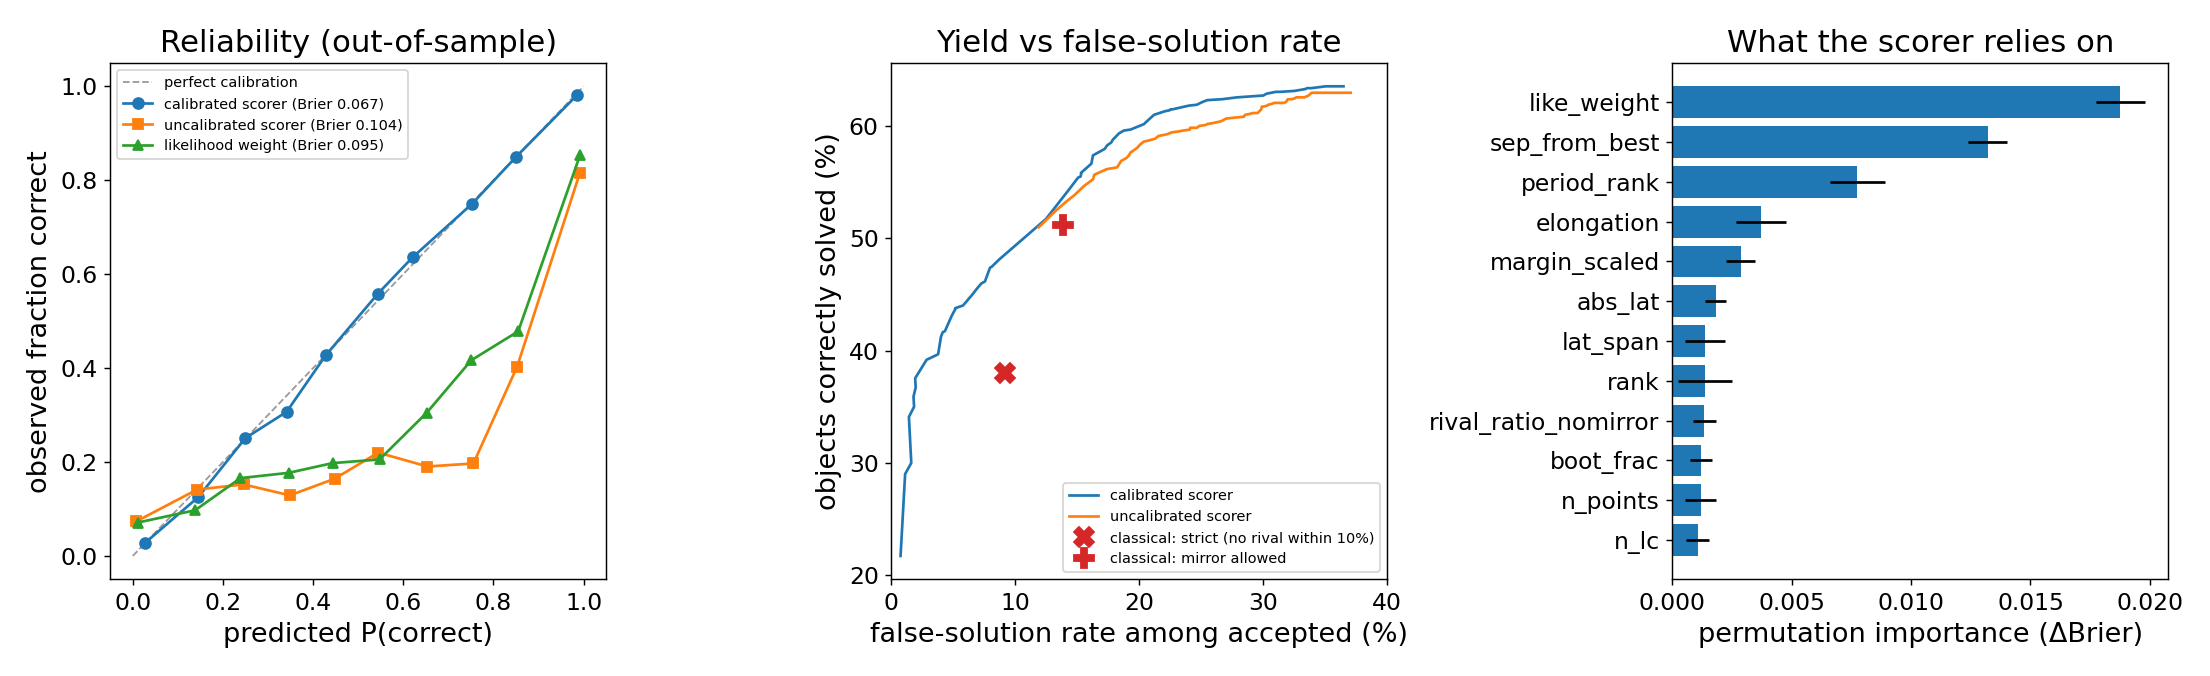
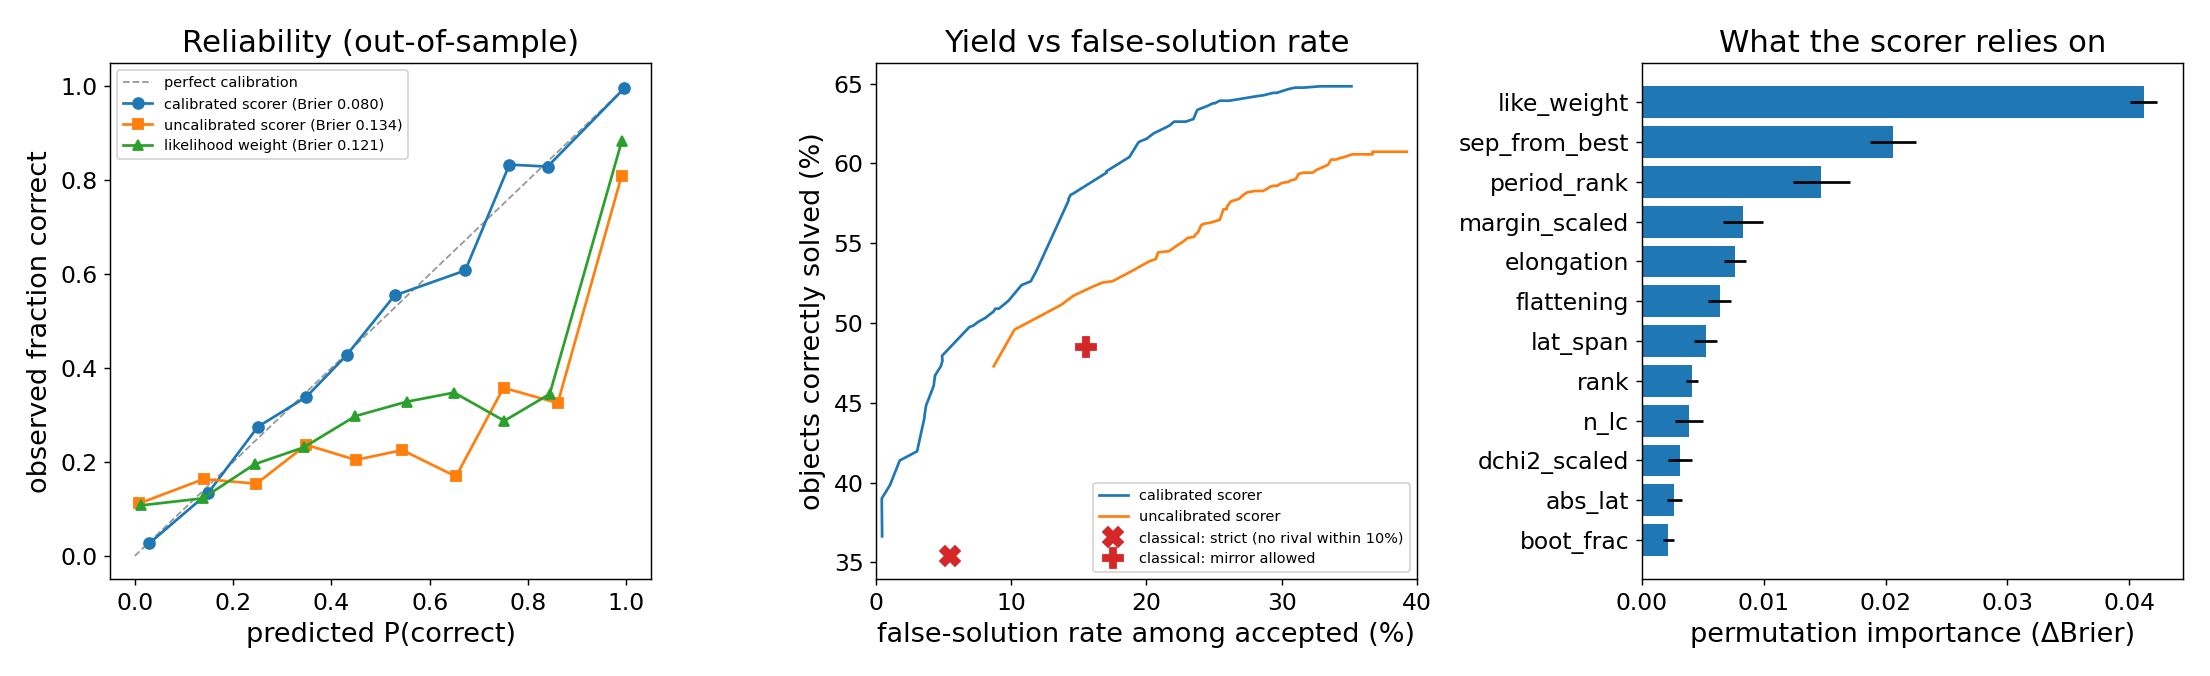
Calibration v2 trained; training-range guard; v2 real-data results
v2 (30 antipodal starts, 1220 injections, nested grouped CV): truth among candidates 83.3% -> 87.4%; objects correctly solved at <=1/2/5/10% false rate 21.7/37.5/43.1/48.1% -> 39.0/41.4/48.0/51.4% (classical rule: 35.4% at 5.5%). Brier rose (0.067 -> 0.080, baselines too) because denser search surfaces more convincing wrong minima; yield at fixed false rate is the cross-version metric.

ScoreModel stores training feature ranges; ScoreReport.out_of_range + summary WARNING when data fall outside them. All real data sets trip it on neff_factor (real residuals far more correlated than injected white noise), and Eunomia-all additionally on n_lc/n_points/n_app: next calibration round needs correlated noise and data-rich injections. v1 figures preserved as docs/images/*_v1.png.

diff --git a/silhouette/scoring.py b/silhouette/scoring.py
@@ -606,6 +606,8 @@ class ScoreReport:
     data: Dict[str, float]
     calibrated: bool
     p_none: float = np.nan   # calibrated P(no candidate is correct), if available
+    # features outside the calibration model's training range: {name: (value, lo, hi)}
+    out_of_range: Dict[str, Tuple[float, float, float]] = field(default_factory=dict)
 
     def summary(self) -> str:
         kind = ("calibrated P(correct)" if self.calibrated
@@ -630,6 +632,12 @@ class ScoreReport:
                 f"{c.like_weight:6.3f} {c.boot_frac:5.2f} {c.probability:6.3f}")
         if self.calibrated and np.isfinite(self.p_none):
             lines.append(f"  P(none of these is correct) ~ {self.p_none:.2f}")
+        if self.out_of_range:
+            items = ", ".join(f"{k}={v:.3g} (trained {lo:.3g}-{hi:.3g})"
+                              for k, (v, lo, hi) in sorted(self.out_of_range.items()))
+            lines.append("  WARNING: data outside the calibration set -- probabilities are "
+                         "extrapolated, not calibrated:")
+            lines.append(f"    {items}")
         return "\n".join(lines)
 
 
@@ -691,6 +699,11 @@ def score_solutions(
     candidate_features(cands, lightcurves, noise_diag=noise, data_feats=dfeat)
 
     p_none = np.nan
+    ood: Dict[str, Tuple[float, float, float]] = {}
+    if model is not None and hasattr(model, "out_of_range"):
+        for c in cands:
+            for k, v in model.out_of_range(c.features).items():
+                ood.setdefault(k, v)
     if model is not None:
         probs = model.predict_proba(cands)
         # families are >= pole_tol apart, so "candidate i is correct" events are
@@ -708,7 +721,7 @@ def score_solutions(
         combine_uncalibrated(cands)
     cands.sort(key=lambda c: -c.probability)
     return ScoreReport(candidates=cands, noise=noise, data=dfeat,
-                       calibrated=model is not None, p_none=p_none)
+                       calibrated=model is not None, p_none=p_none, out_of_range=ood)
 
 
 __all__ = [

diff --git a/silhouette/calibration.py b/silhouette/calibration.py
@@ -422,6 +422,25 @@ class ScoreModel:
         raw = self.classifier.predict_proba(X)[:, 1]
         return np.clip(self.isotonic.predict(raw), 0.0, 1.0)
 
+    def out_of_range(self, features: Dict[str, float], tol: float = 0.0):
+        """Features outside the range seen in training: ``{name: (value, lo, hi)}``.
+
+        Gradient-boosted trees extrapolate flat, so a probability computed for
+        data unlike anything in the injection set (far more curves, points or
+        apparitions) is not calibrated. ``tol`` widens each range by that
+        fraction of its span.
+        """
+        ranges = self.meta.get("feature_ranges", {})
+        out = {}
+        for name, (lo, hi) in ranges.items():
+            v = features.get(name)
+            if v is None or not np.isfinite(v):
+                continue
+            pad = tol * (hi - lo)
+            if v < lo - pad or v > hi + pad:
+                out[name] = (float(v), float(lo), float(hi))
+        return out
+
     def predict_proba(self, candidates) -> np.ndarray:
         X = np.array([[c.features[f] for f in self.features] for c in candidates], dtype=float)
         return self.predict_from_matrix(X)
@@ -498,8 +517,11 @@ def fit_score_model(X: np.ndarray, y: np.ndarray, groups: np.ndarray,
     iso = IsotonicRegression(y_min=0.0, y_max=1.0, out_of_bounds="clip").fit(oof, y)
     clf = _make_classifier(seed).fit(X, y)
     import sklearn
+    ranges = {f: [float(np.nanmin(X[:, i])), float(np.nanmax(X[:, i]))]
+              for i, f in enumerate(features)}
     return ScoreModel(classifier=clf, isotonic=iso, features=list(features),
                       meta={"n_rows": int(y.size), "n_injections": int(np.unique(groups).size),
+                            "feature_ranges": ranges,
                             "sklearn": sklearn.__version__,
                             "trained": time.strftime("%Y-%m-%d %H:%M")})
 

diff --git a/tests/test_scoring.py b/tests/test_scoring.py
@@ -359,3 +359,16 @@ def test_calibrated_probabilities_renormalised_when_overfull(lcs):
         assert total == pytest.approx(1.0)
         assert rep.p_none == 0.0
         assert all(c.probability_raw == pytest.approx(0.8) for c in rep.candidates)
+
+
+def test_out_of_range_guard():
+    rng = np.random.default_rng(1)
+    n = 300
+    X = rng.uniform(0.0, 1.0, size=(n, len(FEATURES)))
+    y = (X[:, 0] > 0.5).astype(float)
+    m = fit_score_model(X, y, np.repeat(np.arange(n // 3), 3), n_splits=3)
+    inside = {f: 0.5 for f in FEATURES}
+    assert m.out_of_range(inside) == {}
+    outside = dict(inside, n_lc=5.0)
+    ood = m.out_of_range(outside)
+    assert list(ood) == ["n_lc"] and ood["n_lc"][0] == 5.0

diff --git a/docs/scoring.md b/docs/scoring.md
@@ -100,10 +100,12 @@ The calibrated probabilities do not have to sum to 1 over the candidates.
 `ScoreReport.p_none = 1 − Σp` is the probability that the truth is not among
 them.
 
-The model is only calibrated for the settings it was trained with
-(`calibration.FAST_INV` = lmax 3, 150 normals, 150 function evaluations, and
-the 20-start `FAST_GRID`). `score_target.py` and the examples use those
-settings. Use different settings, and you should retrain.
+The model is only calibrated for the settings it was trained with:
+`calibration.FAST_INV` (lmax 3, 150 normals, 150 function evaluations) plus
+that version's start grid (`CALIBRATION_GRIDS`: v1 = 20 starts, v2 = 30
+antipodal starts). `calibrated_setup()` returns a grid and model that belong
+together, and `score_target.py` and the examples use it. Use different
+settings, and you should retrain (`calibrate_scorer.py --version ...`).
 
 ## The observation recommender
 
@@ -166,7 +168,62 @@ This is consistent with noise at n = 24. The injection CSV's `true_lon/lat`
 columns are in the old convention, which is internally consistent because
 truths and fits used the same one.
 
-## Results: injection-recovery calibration (2026-09-29/30 overnight run)
+## Calibration v2: denser, antipode-symmetric start grid (current)
+
+v2 replaces v1's 20-start longitude × latitude grid with **30 near-uniform
+starts closed under the antipode map** (`calibration.antipodal_pole_grid`, minimum
+spacing 21.7°). Start coverage no longer depends on the pole sign convention.
+Everything else is identical: the same truths (seeds 0–1219), settings, and
+nested grouped-CV evaluation. `calibrated_setup()` returns the v2 grid and model
+together, so the CLI and examples use v2 automatically.
+
+![calibration v2](images/scorer_calibration.png)
+
+| | v1 (20 starts) | **v2 (30 antipodal starts)** |
+|---|---|---|
+| truth among candidates | 83.3% | **87.4%** |
+| … by apparitions 1 / 2 / 3 / 4 / 5 / 6 | .44 / .78 / .88 / .96 / .99 / .99 | .45 / **.85 / .95 / .99** / 1.00 / .99 |
+| **scorer: objects correctly solved at ≤1% false** | 21.7% | **39.0%** |
+| … at ≤2% false | 37.5% | **41.4%** |
+| … at ≤5% false | 43.1% | **48.0%** |
+| … at ≤10% false | 48.1% | **51.4%** |
+| classical 10% rule: solved / false rate | 38.0% / 9.2% | 35.4% / 5.5% |
+| scorer at the classical rule's false rate | 48.1% (vs 38.0%) | 48.0% (vs 35.4%) |
+| best-χ² candidate is correct | 63.0% | 61.3% |
+| Brier: calibrated / raw likelihood / best-χ² indicator | 0.067 / 0.095 / 0.133 | 0.080 / 0.121 / 0.165 |
+| median time per object (1 core) | 74 s | 104 s |
+
+**Reading it.**
+
+- **The denser grid does what it was for.** It finds the true basin more
+  often, mostly for 2–4 apparitions: 3 apparitions went from 88% to 95%.
+- **The scorer turns that into yield at every false-solution rate.** The
+  biggest gain is at the strict end, where objects solved at ≤1% false went
+  from 22% to 39%. At 5% false it now solves 48% of objects, against the
+  classical rule's 35% at 5.5% false: **36% more objects at a lower error
+  rate.**
+- **More starts also find more deep *wrong* minima.** These are competitors
+  that fit as well as the truth, or better, under model mismatch. So picking
+  the lowest χ² gets slightly worse (63.0% → 61.3%), as do all the Brier
+  scores, including the baselines'. The classification problem is harder
+  because the candidate lists are more honest.
+- **Brier is not comparable across versions.** Each version is scored on its
+  own candidate set, so the metric that carries over is yield at a fixed
+  false-solution rate.
+- **Calibration still holds per apparition count.** Mean P(top) against the
+  fraction actually correct: .21 vs .15, .52 vs .46, .72 vs .74, .83 vs .87,
+  .87 vs .89, .92 vs .91. On the 763 objects the classical rule rejects, the
+  mean P(top) is 0.49 against 0.47 correct, and 383 of them get p > 0.5, of
+  which 72% are right.
+- **Cost is about 1.4× per object**, not 1.5×: starts that land in the same
+  basin converge quickly.
+
+![identifiability v2](images/identifiability_map.png)
+
+v1's results are kept below for reference, with figures in
+`docs/images/*_v1.png` and `results/scorer/v1/`.
+
+## Calibration v1 results (20-start grid, 2026-09-29/30 overnight run)
 
 1220 synthetic asteroids gave 6889 candidate solutions. The run took 6.7 h on
 4 cores, at about 180 injections per hour and a median of 74 s each. There
@@ -175,7 +232,7 @@ injection-grouped 5-fold CV gives each injection a probability from a model
 that never saw it, and the isotonic map is fitted by an inner CV. Intervals are
 68% bootstrap intervals over objects.
 
-![calibration](images/scorer_calibration.png)
+![calibration v1](images/scorer_calibration_v1.png)
 
 **Calibration.** The calibrated probabilities sit on the diagonal. The raw
 likelihood weights and the uncalibrated combination are badly overconfident:
@@ -234,7 +291,7 @@ are correct.
 
 **Identifiability map.** This is a free byproduct of the injections.
 
-![identifiability](images/identifiability_map.png)
+![identifiability v1](images/identifiability_map_v1.png)
 
 The ≥3-apparition rule of thumb is visible directly. Measured across all
 noise levels:
@@ -260,6 +317,47 @@ Bootstrap agreement adds little once these are present. It was cheap to keep,
 but the likelihood layer's information largely subsumes it at `n_boot = 10`.
 
 ## Real data
+
+### With calibration v2 (current)
+
+`results/scorer/*_v2.*`; poles in the DAMIT convention.
+
+| target | data | what v2 says | vs DAMIT / truth |
+|---|---|---|---|
+| synthetic demo | 2 apparitions, 240 pts | truth ranked 1st but only p = 0.27; a second candidate within 20° of the truth adds 0.14; its mirror gets 0.20 | truth 9° off (rank 1) |
+| Eunomia, 2 apparitions | 221 pts | probability spread over 8 candidates (0.04–0.17), **flagged** (residual correlation) | closest to DAMIT: 9°, p = 0.14 |
+| Eunomia, all curves | 106 curves, 9868 pts, 22 apparitions | the family 24° from DAMIT gets 0.95, the DAMIT family (3.5°) 0.05, **flagged out of range** | wrong family favoured |
+| 16152 | 1 apparition, 406 pts | every candidate ≤ 0.12, **P(none) = 0.62**, **flagged** (residual correlation, phase < 2°, apparition-length curve) | honest "cannot decide" |
+
+- **The demo's lowest-χ² candidates are wrong.** Four wrong candidates have
+  *lower* χ²_ν (0.925–0.938) than the one at the true pole (0.959). This is
+  model mismatch: an irregular body with lmax 3 and a different Lambert
+  weight. v2 still puts the truth first. It has learned that the wrong ones
+  carry implausible shapes (b/c proxy 0.59–0.64, i.e. spinning about a long
+  axis; `flattening` is among its important features). The classical
+  lowest-χ² rule would have picked a wrong pole here.
+- **Eunomia with all curves is outside the training set.** 106 light
+  curves, 9868 points and 22 apparitions, against at most 21, 1155 and 6 in
+  the injections. The scorer extrapolates confidently in the direction the
+  χ² points, and the χ² points the wrong way on this data (see the
+  sim-to-real note). `ScoreModel.out_of_range` now catches this: every
+  calibration model stores its training feature ranges, and the report
+  prints a **WARNING** when the data fall outside them. Such probabilities
+  should be read as uncalibrated. Covering data-rich targets needs injections
+  with many more curves and apparitions.
+- **Every real data set trips the guard on one feature: `neff_factor`.**
+  Real best-fit residuals are far more correlated along each light curve
+  (lag-1 ρ ≈ 0.5–0.7, N_eff factor 0.17–0.33) than any injection
+  (factor ≥ 0.39, ρ ≤ 0.44). The injections add white noise only, so the one
+  systematic they contain is shape and scattering mismatch. Real photometry
+  also has night-to-night zero-point drifts, comparison-star and airmass
+  trends, and smoothed or digitised archival curves. This is the sim-to-real
+  gap measured as a single number, and it tells the next calibration round
+  exactly what to add: **correlated (red) noise and per-night systematics in
+  the injected photometry.** Until then, treat probabilities on real data as
+  a ranking with honest spreads, not as calibrated odds.
+
+### Earlier runs (calibration v1)
 
 All of these use the calibrated settings and `n_workers = 4`. Outputs are in
 `results/scorer/`. The Eunomia and 16152 numbers below were produced before
@@ -325,20 +423,20 @@ come out directly in the DAMIT convention):
 
 ### Known ceilings of this calibration
 
-- **Truth among candidates, 83% overall.** Most misses are geometric, in 1–2
+- **Truth among candidates, 83% (v1).** Most misses are geometric, in 1–2
   apparitions. About a third of misses have the spin-sense antipode instead,
-  and the median nearest miss is 29°. Some misses come from the 20-start grid.
-  Earlier Silhouette work found that 25–30 starts beat 6, so a denser grid
-  would lift this, at a cost linear in the number of starts.
+  and the median nearest miss is 29°. Some misses came from the 20-start grid:
+  **v2's 30-start grid lifted this to 87%** (see above). The 1-apparition
+  rate (45%) is physics, not search.
 - **Truth model.** The truths are irregular convex bodies with LS+Lambert
   scattering, and the rendering Lambert weight differs from the fit's.
   Real asteroids add non-convexity, albedo variegation, rough-surface phase
   effects and heterogeneous archival photometry. The Eunomia test below shows
   the gap is real.
-- **Settings.** The calibration is valid for `FAST_INV`/`FAST_GRID`, relative
+- **Settings.** The calibration is valid for `FAST_INV` plus its version's grid, relative
   photometry, 20° pole tolerance, and the injected period ±1 alias. Changing
   lmax, the start grid or the tolerance requires retraining
   (`python calibrate_scorer.py run ... && python calibrate_scorer.py train`).
-- **Model file.** `silhouette/models/scorer_v1.pkl` is regenerable and
+- **Model files.** `silhouette/models/scorer_v1.pkl` / `scorer_v2.pkl` are regenerable and
   gitignored (recipe, not binary). The injection table
   (`results/scorer/injections.csv`, 1220 injections) stays local.

diff --git a/README.md b/README.md
@@ -269,7 +269,8 @@ It works in three layers:
 2. **Whole-light-curve bootstrap agreement.**
 3. **A calibration classifier.** A gradient-boosted model with isotonic
    calibration was trained on 1220 injected synthetic asteroids run through the
-   identical pipeline.
+   identical pipeline (calibration v2: a 30-start, antipode-symmetric pole
+   grid).
 
 `recommend_observations` then ranks future dates by the expected probability
 of the true solution after one more night.
@@ -278,13 +279,18 @@ Out-of-sample results (nested, injection-grouped CV):
 
 | | objects correctly solved | false-solution rate |
 |---|---|---|
-| classical rule (no rival within 10%) | 38.0% | 9.2% |
-| **scorer at the same false rate** | **48.1%** | 8.7% |
-| **scorer at 5%** | **43.1%** | 4.9% |
+| classical rule (no rival within 10%) | 35.4% | 5.5% |
+| **scorer at 5%** | **48.0%** | 4.9% |
+| **scorer at 1%** | **39.0%** | ≤1% |
+| **scorer at 10%** | **51.4%** | ≤10% |
 
-- The calibrated probabilities are reliable, with Brier 0.067 against 0.095
+- The calibrated probabilities are reliable, with Brier 0.080 against 0.121
   for raw likelihood weights.
-- They stay calibrated on the 58% of objects the classical rule rejects.
+- They stay calibrated on the 63% of objects the classical rule rejects.
+- The true solution is among the candidates for 87% of objects.
+- Every model stores its training feature ranges, and the report **warns
+  when the data fall outside them**, for example far more light curves or
+  apparitions than were injected.
 - For single-apparition data, two thirds of the classical rule's accepted
   poles are wrong. The scorer instead reports a low probability (about 0.2),
   which is accurate.
@@ -478,18 +484,19 @@ python score_target.py photometry.txt --target 16152 --period-h 22.936 \
 
 ```python
 from silhouette import (read_photometry, lightcurves_from_photometry, spindoc_periods,
-                        score_solutions, load_default_model)
-from silhouette.calibration import FAST_GRID, FAST_INV   # the calibrated settings
+                        score_solutions)
+from silhouette.calibration import FAST_INV, calibrated_setup
 
+grid, model, version = calibrated_setup()        # a start grid and model that belong together
 lcs = lightcurves_from_photometry(read_photometry("phot.txt"), target="16152")
-rep = score_solutions(lcs, spindoc_periods(22.936, 50.0), pole_grid=FAST_GRID,
-                      model=load_default_model(), n_workers=4, **FAST_INV)
+rep = score_solutions(lcs, spindoc_periods(22.936, 50.0), pole_grid=grid,
+                      model=model, n_workers=4, **FAST_INV)
 print(rep.summary())
 ```
 
 The calibration model is regenerated, not committed:
-`python calibrate_scorer.py run --workers 4 --hours 6` then
-`python calibrate_scorer.py train`.
+`python calibrate_scorer.py run --workers 4` (about 10 h for 1220 injections
+with the v2 grid) then `python calibrate_scorer.py train`.
 
 ### Command line
 
@@ -523,7 +530,9 @@ resolves **two statistically indistinguishable pole families**. One is at
 DAMIT's convention. The other is at (91°, −78°), 25° away. That is a large
 improvement, but the pole is genuinely degenerate, which is why the example
 reports families rather than a single winner. The calibrated scorer
-(`example_eunomia_scoring.py`) currently gives the DAMIT family 0.2–0.3; see
+(`example_eunomia_scoring.py`) favours the *other* family here and flags the
+data as outside its calibration range (106 curves and 22 apparitions, against
+at most 21 and 6 in training), so those probabilities are extrapolations; see
 [docs/scoring.md](docs/scoring.md).
 
 ### 2. Single-apparition, real — (16152)

diff --git a/ROADMAP.md b/ROADMAP.md
@@ -31,11 +31,19 @@ landed and what changed along the way. Remaining open questions are flagged
 
 - ~~Pole convention~~ **resolved 2026-09-30**: flipped to the DAMIT
   (angular-momentum) convention; see `docs/scoring.md`.
-- Denser start grid (30 vs 20) to lift "truth among candidates" from 83%;
-  retrain after any change to `FAST_INV`/`FAST_GRID`.
+- ~~Denser start grid~~ **done 2026-09-30 (calibration v2)**: 30 antipodal
+  starts; truth-among-candidates 83% → 87%, objects solved at ≤5% false
+  43% → 48%. Retrain after any change to `FAST_INV` or the grid.
 - Richer injection truths: non-convex shapes, albedo spots, Hapke-like
   phase behaviour, heterogeneous archival noise. Real Eunomia shows a
   sim-to-real gap.
+- **Correlated noise in injections (highest priority).** Every real data set
+  tested (Eunomia, 16152) has residual autocorrelation beyond anything
+  injected (N_eff factor 0.17–0.33 vs ≥ 0.39), which trips the range guard.
+  Add red noise, per-night zero-point drifts and airmass trends to `render()`.
+- **Data-rich injections** (up to ~100 curves, ~20 apparitions, archival-style
+  heterogeneous noise and digitised curves), so targets like Eunomia fall
+  inside the calibration range. Today they trigger the out-of-range warning.
 - A sparse-survey mode (Gaia/ATLAS/ZTF points) and mixed dense+sparse runs.
 - Hand the stage-2 NPE project this simulator, injection harness and the
   calibration tests.
